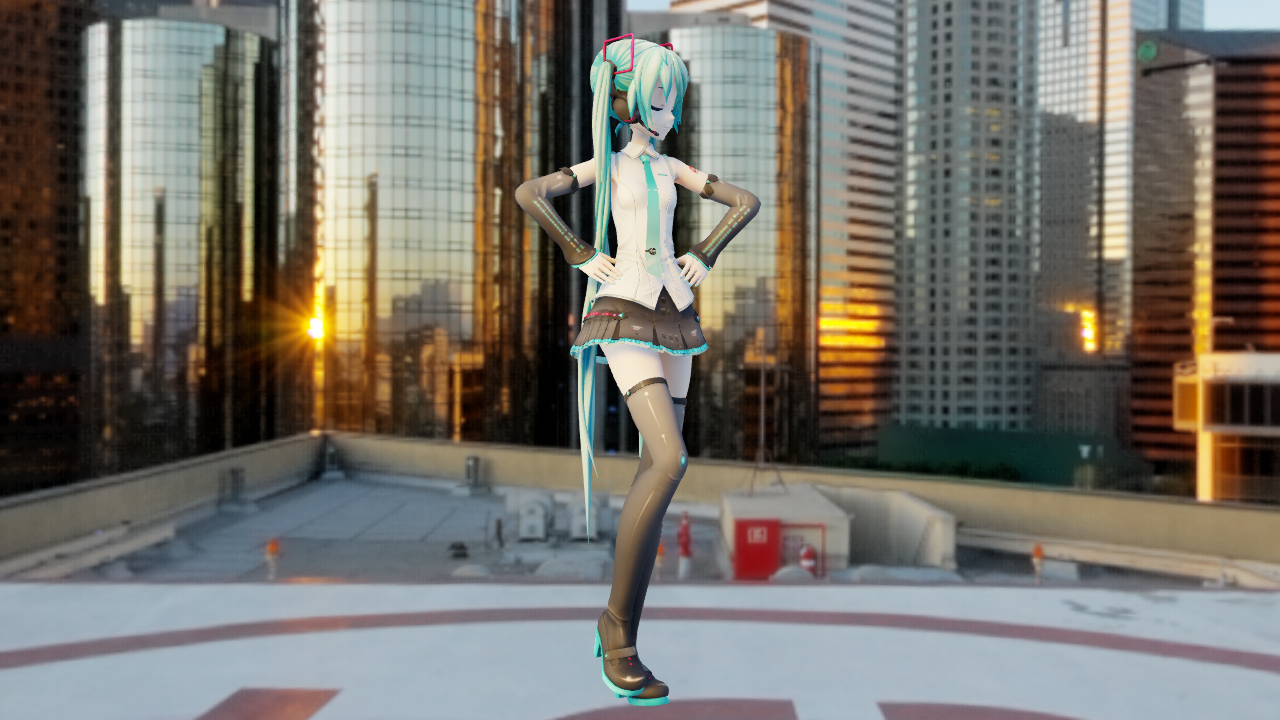
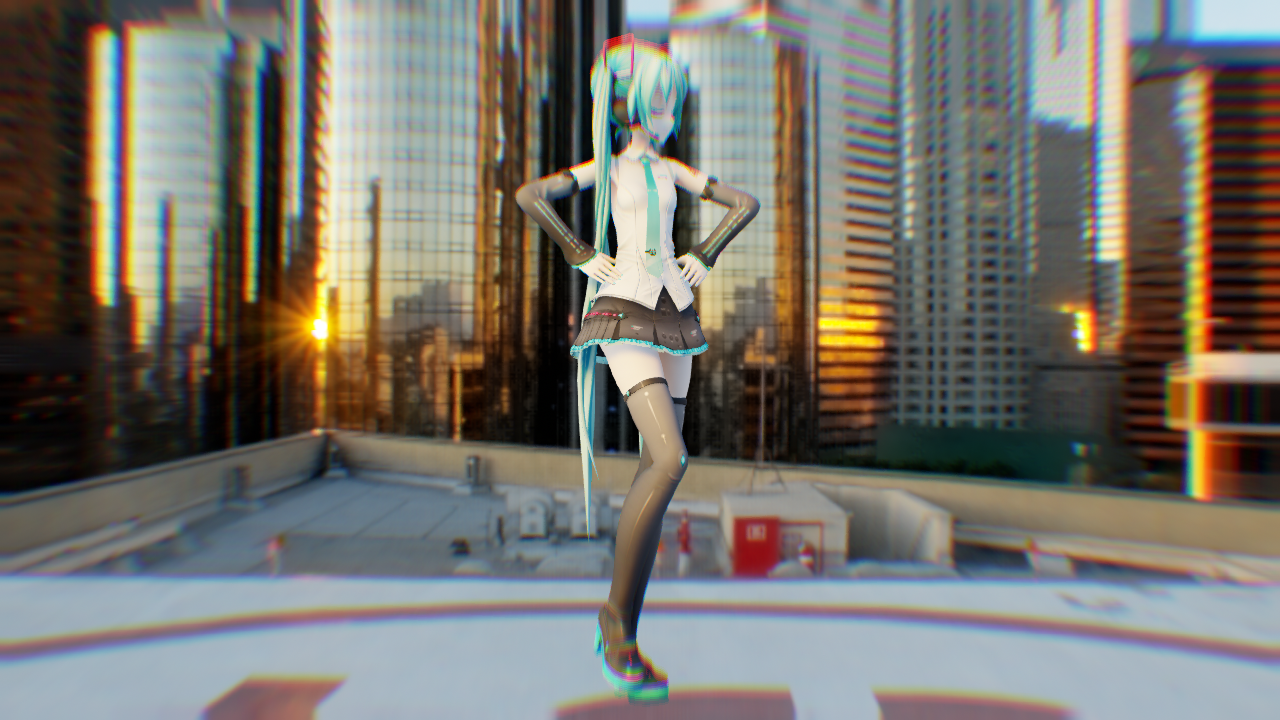
fuck pic

diff --git a/Word/conf.md b/Word/conf.md
@@ -278,7 +278,7 @@ Anti-Aliasing
 Postprocess Dispersion
 -----
 * 后处理色散
-	色散颜色调整
+	控制器中左下表情Dispersion（色散）的表现方式
 
     ### `Postprocess Dispersion`
 
@@ -289,6 +289,8 @@ Postprocess Dispersion
 	| Postprocess_Dispersion 0 | Postprocess_Dispersion 1 | Postprocess_Dispersion 2 |
 	| :- | :- | :- |
 	| [![5_Postprocess_Dispersion_0](../Pic/5_Postprocess_Dispersion_0s.png)](../Pic/5_Postprocess_Dispersion_0.png) | [![5_Postprocess_Dispersion_1](../Pic/5_Postprocess_Dispersion_1s.png)](../Pic/5_Postprocess_Dispersion_1.png) | [![5_Postprocess_Dispersion_2](../Pic/5_Postprocess_Dispersion_2s.png)](../Pic/5_Postprocess_Dispersion_2.png) |
+
+	※ 为了让对比更加明显，我设置了控制器Dispersion+1的设定。
 
 
 # ray_advanced.conf的设置
